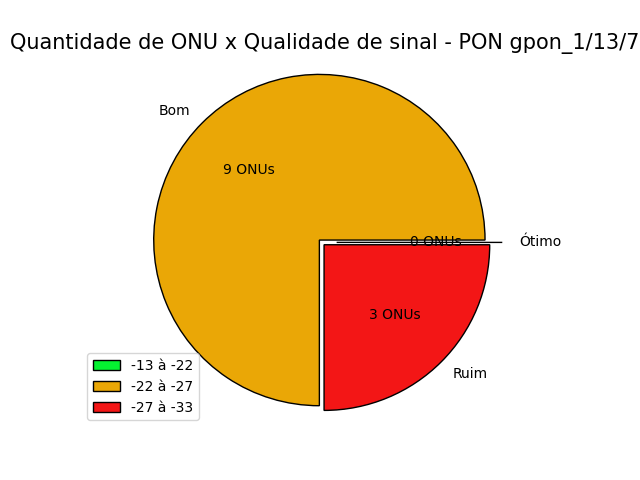
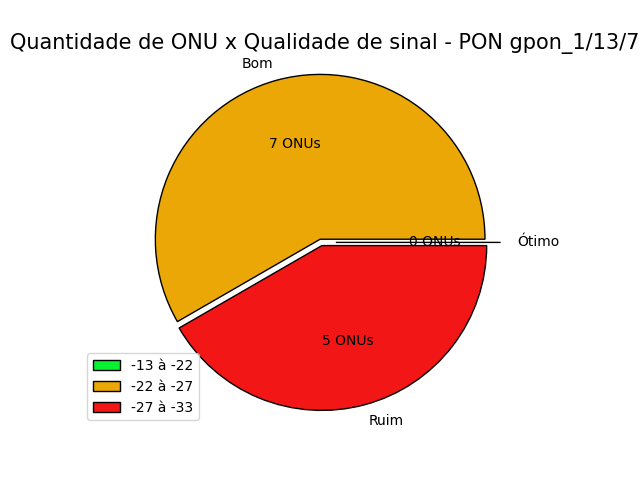
atualizado .gitignore

diff --git a/dados.js b/dados.js
@@ -1,4 +1,4 @@
-const relatorioPons={'gpon_1/13/1': {'online': 6, 'provisionada': 8, 'offline': 2, 'onusSinalBom': 4, 'onusSinalOtimo': 1, 'onusSinalRuim': 1, 'melhorSinal': -11.399, 'piorSinal': -28.126, 'mediaSinal': -24.373, 'onuComSinalRuim': [{'idOnu': 'gpon-onu_1/13/1:3', 'sinal': -28.126, 'description': 'Neuza_Ferreira', 'serial': 'FHTT100139A8'}]}, 'gpon_1/13/2': {'online': 31, 'provisionada': 34, 'offline': 3, 'onusSinalBom': 11, 'onusSinalOtimo': 17, 'onusSinalRuim': 3, 'melhorSinal': -16.699, 'piorSinal': -28.681, 'mediaSinal': -20.883, 'onuComSinalRuim': [{'idOnu': 'gpon-onu_1/13/2:15', 'sinal': -28.681, 'description': 'Cesar_junior_Loiola_', 'serial': 'FHTT092420C0'}, {'idOnu': 'gpon-onu_1/13/2:20', 'sinal': -27.695, 'description': 'Patricia_Junia', 'serial': 'INVP10165317'}, {'idOnu': 'gpon-onu_1/13/2:28', 'sinal': -28.478, 'description': 'CEZAR_SARAIVA', 'serial': 'INVP10036838'}]}, 'gpon_1/13/3': {'online': 10, 'provisionada': 24, 'offline': 14, 'onusSinalBom': 9, 'onusSinalOtimo': 0, 'onusSinalRuim': 1, 'melhorSinal': -24.66, 'piorSinal': -27.034, 'mediaSinal': -26.187, 'onuComSinalRuim': [{'idOnu': 'gpon-onu_1/13/3:26', 'sinal': -27.034, 'description': 'Elaine_rosa', 'serial': 'TLCM000A6D94'}]}, 'gpon_1/13/4': {'online': 1, 'provisionada': 1, 'offline': 0, 'onusSinalBom': 0, 'onusSinalOtimo': 1, 'onusSinalRuim': 0, 'melhorSinal': -18.459, 'piorSinal': -18.459, 'mediaSinal': -18.459, 'onuComSinalRuim': []}, 'gpon_1/13/5': {'online': 10, 'provisionada': 14, 'offline': 4, 'onusSinalBom': 8, 'onusSinalOtimo': 1, 'onusSinalRuim': 1, 'melhorSinal': -20.706, 'piorSinal': -27.261, 'mediaSinal': -25.289, 'onuComSinalRuim': [{'idOnu': 'gpon-onu_1/13/5:4', 'sinal': -27.261, 'description': 'Patricia_cassia', 'serial': 'FHTT0578BF00'}]}, 'gpon_1/13/6': {'online': 1, 'provisionada': 4, 'offline': 3, 'onusSinalBom': 0, 'onusSinalOtimo': 1, 'onusSinalRuim': 0, 'melhorSinal': -21.675, 'piorSinal': -21.675, 'mediaSinal': -21.675, 'onuComSinalRuim': []}, 'gpon_1/13/7': {'online': 12, 'provisionada': 15, 'offline': 3, 'onusSinalBom': 9, 'onusSinalOtimo': 0, 'onusSinalRuim': 3, 'melhorSinal': -22.806, 'piorSinal': -29.005, 'mediaSinal': -25.162, 'onuComSinalRuim': [{'idOnu': 'gpon-onu_1/13/7:3', 'sinal': -29.005, 'description': 'JOSIANE_DAS_DORES_MOREIRA', 'serial': 'TLCM00095D05'}, {'idOnu': 'gpon-onu_1/13/7:7', 'sinal': -27.449, 'description': 'Mary_Neusa_Maria_da_silva', 'serial': 'ZTEG96010AB2'}, {'idOnu': 'gpon-onu_1/13/7:13', 'sinal': -27.259, 'description': 'ADRIANO_SOUZA_CUNHA', 'serial': 'TLCM00025121'}]}, 'gpon_1/13/8': {}, 'gpon_1/13/9': {'online': 17, 'provisionada': 24, 'offline': 7, 'onusSinalBom': 5, 'onusSinalOtimo': 12, 'onusSinalRuim': 0, 'melhorSinal': -18.651, 'piorSinal': -23.895, 'mediaSinal': -20.926, 'onuComSinalRuim': []}, 'gpon_1/13/10': {'online': 7, 'provisionada': 8, 'offline': 1, 'onusSinalBom': 4, 'onusSinalOtimo': 3, 'onusSinalRuim': 0, 'melhorSinal': -11.059, 'piorSinal': -25.562, 'mediaSinal': -22.628, 'onuComSinalRuim': []}, 'gpon_1/13/11': {'online': 31, 'provisionada': 37, 'offline': 6, 'onusSinalBom': 16, 'onusSinalOtimo': 10, 'onusSinalRuim': 5, 'melhorSinal': -18.03, 'piorSinal': -29.517, 'mediaSinal': -23.727, 'onuComSinalRuim': [{'idOnu': 'gpon-onu_1/13/11:1', 'sinal': -29.214, 'description': 'Adilson_Vilela', 'serial': 'TLCM0006E7A4'}, {'idOnu': 'gpon-onu_1/13/11:11', 'sinal': -27.596, 'description': 'Ivone_da_Silva', 'serial': 'MSTC393BFEF6'}, {'idOnu': 'gpon-onu_1/13/11:24', 'sinal': -29.517, 'description': 'Maria_Machado_da_silva', 'serial': 'MSTC03A41BAE'}, {'idOnu': 'gpon-onu_1/13/11:35', 'sinal': -28.19, 'description': 'Marcia_Felicio', 'serial': 'HWTC4B369D9E'}, {'idOnu': 'gpon-onu_1/13/11:37', 'sinal': -27.214, 'description': 'Walister_Mota_soares', 'serial': 'TDTC35226778'}]}, 'gpon_1/13/12': {'online': 2, 'provisionada': 4, 'offline': 2, 'onusSinalBom': 2, 'onusSinalOtimo': 0, 'onusSinalRuim': 0, 'melhorSinal': -24.534, 'piorSinal': -24.737, 'mediaSinal': -25.034, 'onuComSinalRuim': []}, 'gpon_1/13/13': {'online': 8, 'provisionada': 11, 'offline': 3, 'onusSinalBom': 7, 'onusSinalOtimo': 1, 'onusSinalRuim': 0, 'melhorSinal': -20.204, 'piorSinal': -26.165, 'mediaSinal': -23.476, 'onuComSinalRuim': []}, 'gpon_1/13/14': {}, 'gpon_1/13/15': {'online': 8, 'provisionada': 11, 'offline': 3, 'onusSinalBom': 1, 'onusSinalOtimo': 6, 'onusSinalRuim': 1, 'melhorSinal': -11.576, 'piorSinal': -27.751, 'mediaSinal': -13.766, 'onuComSinalRuim': [{'idOnu': 'gpon-onu_1/13/15:5', 'sinal': -27.751, 'description': 'Samuel_Souza_-_Borboletas_112', 'serial': 'MSTC393D607B'}]}, 'gpon_1/13/16': {'online': 9, 'provisionada': 10, 'offline': 1, 'onusSinalBom': 1, 'onusSinalOtimo': 8, 'onusSinalRuim': 0, 'melhorSinal': -10.788, 'piorSinal': -22.396, 'mediaSinal': -15.575, 'onuComSinalRuim': []}}
+const relatorioPons={'gpon_1/9/1': {}, 'gpon_1/9/2': {}, 'gpon_1/9/3': {}, 'gpon_1/9/4': {}, 'gpon_1/9/5': {}, 'gpon_1/9/6': {}, 'gpon_1/9/7': {}, 'gpon_1/9/8': {}, 'gpon_1/9/9': {}, 'gpon_1/9/10': {}, 'gpon_1/9/11': {}, 'gpon_1/9/12': {}, 'gpon_1/9/13': {}, 'gpon_1/9/14': {}, 'gpon_1/9/15': {}, 'gpon_1/9/16': {}, 'gpon_1/12/1': {'online': 38, 'provisionada': 53, 'offline': 15, 'onusSinalBom': 15, 'onusSinalOtimo': 16, 'onusSinalRuim': 7, 'melhorSinal': -15.734, 'piorSinal': -28.418, 'mediaSinal': -23.049, 'onuComSinalRuim': [{'idOnu': 'gpon-onu_1/12/1:4', 'sinal': -28.183, 'description': 'ARGILEU_MOREIRA_PRATES', 'serial': 'TLCM0003FE97'}, {'idOnu': 'gpon-onu_1/12/1:5', 'sinal': -27.965, 'description': 'Aline_Kely', 'serial': 'INVP00014045'}, {'idOnu': 'gpon-onu_1/12/1:9', 'sinal': -28.418, 'description': 'Lazaro', 'serial': 'MSTC039E8DCB'}, {'idOnu': 'gpon-onu_1/12/1:10', 'sinal': -27.958, 'description': 'MARCELO_SOUZA_ALVES', 'serial': 'TLCM000908C2'}, {'idOnu': 'gpon-onu_1/12/1:11', 'sinal': -27.212, 'description': 'Vinicius_furtado', 'serial': 'DD16B3631B9E'}, {'idOnu': 'gpon-onu_1/12/1:21', 'sinal': -27.748, 'description': 'DANIELE_CAROLINA_PAULA_DOS_ANJOS_BARCELOS', 'serial': 'TDTC350D8AE0'}, {'idOnu': 'gpon-onu_1/12/1:47', 'sinal': -27.034, 'description': 'Ludmila__tamires_-_Maicon', 'serial': 'MSTC03A5FBBA'}]}, 'gpon_1/12/2': {'online': 18, 'provisionada': 24, 'offline': 6, 'onusSinalBom': 2, 'onusSinalOtimo': 15, 'onusSinalRuim': 1, 'melhorSinal': -11.99, 'piorSinal': -27.259, 'mediaSinal': -18.48, 'onuComSinalRuim': [{'idOnu': 'gpon-onu_1/12/2:19', 'sinal': -27.259, 'description': 'Antonio_Ribeiro', 'serial': 'TLCM0007C3FD'}]}, 'gpon_1/12/3': {}, 'gpon_1/12/4': {'online': 40, 'provisionada': 52, 'offline': 12, 'onusSinalBom': 32, 'onusSinalOtimo': 1, 'onusSinalRuim': 7, 'melhorSinal': -21.394, 'piorSinal': -28.049, 'mediaSinal': -25.34, 'onuComSinalRuim': [{'idOnu': 'gpon-onu_1/12/4:4', 'sinal': -27.782, 'description': 'Naely', 'serial': 'GW24AC539CFD'}, {'idOnu': 'gpon-onu_1/12/4:6', 'sinal': -27.932, 'description': 'ROSANGELO_MARTINS/_MARINA', 'serial': 'TLCM0009C486'}, {'idOnu': 'gpon-onu_1/12/4:22', 'sinal': -27.338, 'description': 'Romualdo', 'serial': 'TPLG6B54CF91'}, {'idOnu': 'gpon-onu_1/12/4:23', 'sinal': -27.982, 'description': 'Lucas_Rodrigues_Barbosa_lucas_160', 'serial': 'FHTT112B26F8'}, {'idOnu': 'gpon-onu_1/12/4:39', 'sinal': -27.531, 'description': 'Thailer_Luiz_compos_marques', 'serial': 'HWTCA21E09A4'}, {'idOnu': 'gpon-onu_1/12/4:44', 'sinal': -28.049, 'description': 'Casa_Mae', 'serial': 'HWTCE474E7A3'}, {'idOnu': 'gpon-onu_1/12/4:54', 'sinal': -27.883, 'description': 'VALDENI_PEREIRA_DE_FREITAS', 'serial': 'INVP10037618'}]}, 'gpon_1/12/5': {'online': 59, 'provisionada': 74, 'offline': 15, 'onusSinalBom': 40, 'onusSinalOtimo': 6, 'onusSinalRuim': 13, 'melhorSinal': -20.575, 'piorSinal': -30.111, 'mediaSinal': -24.763, 'onuComSinalRuim': [{'idOnu': 'gpon-onu_1/12/5:2', 'sinal': -30.111, 'description': 'Karina_melo', 'serial': 'TDTC352ABC10'}, {'idOnu': 'gpon-onu_1/12/5:3', 'sinal': -27.224, 'description': 'Roberto_Marcio', 'serial': 'ASKY003A7AC6'}, {'idOnu': 'gpon-onu_1/12/5:5', 'sinal': -29.359, 'description': 'Maria_da_Conceicao_aparecida_de_souza_Deivison_', 'serial': 'TLCM0009647B'}, {'idOnu': 'gpon-onu_1/12/5:9', 'sinal': -27.353, 'description': 'ingrid', 'serial': 'MSTC03A36B90'}, {'idOnu': 'gpon-onu_1/12/5:13', 'sinal': -27.496, 'description': 'MESSIAS_SANTOS_DE_SOUZA', 'serial': 'TLCM0009BD2F'}, {'idOnu': 'gpon-onu_1/12/5:14', 'sinal': -27.496, 'description': 'Aliana_rosa', 'serial': 'ZTEGC8B9D076'}, {'idOnu': 'gpon-onu_1/12/5:35', 'sinal': -27.4, 'description': 'Jonatas_de_Castro', 'serial': 'TPLGF78EB475'}, {'idOnu': 'gpon-onu_1/12/5:36', 'sinal': -28.86, 'description': 'Gracielia', 'serial': 'TLCM0004B7EF'}, {'idOnu': 'gpon-onu_1/12/5:38', 'sinal': -28.13, 'description': 'Jean_Vinicius', 'serial': 'MSTC35C85279'}, {'idOnu': 'gpon-onu_1/12/5:57', 'sinal': -28.478, 'description': 'Lucinete', 'serial': 'MSTC39390D8E'}, {'idOnu': 'gpon-onu_1/12/5:68', 'sinal': -27.698, 'description': 'Guilherme_Ramos_mendes', 'serial': 'FHTT00074CF8'}, {'idOnu': 'gpon-onu_1/12/5:70', 'sinal': -28.186, 'description': 'Edimilson_batista_santos_mundo_das_pecas', 'serial': 'TLCM0005D352'}, {'idOnu': 'gpon-onu_1/12/5:73', 'sinal': -27.306, 'description': 'Marcio_Alves_diniz', 'serial': 'TDTC35222620'}]}, 'gpon_1/12/6': {'online': 9, 'provisionada': 11, 'offline': 2, 'onusSinalBom': 1, 'onusSinalOtimo': 7, 'onusSinalRuim': 1, 'melhorSinal': -12.951, 'piorSinal': -27.405, 'mediaSinal': -17.851, 'onuComSinalRuim': [{'idOnu': 'gpon-onu_1/12/6:3', 'sinal': -27.405, 'description': 'Antonio_Marcos_de_Souza', 'serial': 'FHTT231D9508'}]}, 'gpon_1/12/7': {'online': 32, 'provisionada': 46, 'offline': 14, 'onusSinalBom': 13, 'onusSinalOtimo': 13, 'onusSinalRuim': 6, 'melhorSinal': -18.102, 'piorSinal': -29.208, 'mediaSinal': -23.192, 'onuComSinalRuim': [{'idOnu': 'gpon-onu_1/12/7:9', 'sinal': -27.648, 'description': 'Rodrigo_Santos_de_souza', 'serial': 'TDTC350CC708'}, {'idOnu': 'gpon-onu_1/12/7:14', 'sinal': -29.208, 'description': 'Maria_do_Carmo_Diogo', 'serial': 'TLCM00075F3F'}, {'idOnu': 'gpon-onu_1/12/7:18', 'sinal': -27.906, 'description': 'Nicoli', 'serial': 'TLCM000401BA'}, {'idOnu': 'gpon-onu_1/12/7:22', 'sinal': -28.483, 'description': 'Rodrigo_Almeida_Vieira', 'serial': 'MSTC38EC2DF6'}, {'idOnu': 'gpon-onu_1/12/7:31', 'sinal': -27.167, 'description': 'Tania_Aparecida_Migliori_de_Souza', 'serial': 'MSTC393BEF4B'}, {'idOnu': 'gpon-onu_1/12/7:32', 'sinal': -27.496, 'description': 'Ebert_Richard', 'serial': 'FHTT11F9F8D0'}]}, 'gpon_1/12/8': {'online': 2, 'provisionada': 2, 'offline': 0, 'onusSinalBom': 2, 'onusSinalOtimo': 0, 'onusSinalRuim': 0, 'melhorSinal': -23.116, 'piorSinal': -25.885, 'mediaSinal': -23.616, 'onuComSinalRuim': []}, 'gpon_1/12/9': {'online': 51, 'provisionada': 60, 'offline': 9, 'onusSinalBom': 26, 'onusSinalOtimo': 4, 'onusSinalRuim': 21, 'melhorSinal': -20.991, 'piorSinal': -29.57, 'mediaSinal': -26.428, 'onuComSinalRuim': [{'idOnu': 'gpon-onu_1/12/9:4', 'sinal': -27.048, 'description': 'Michel_Felipe', 'serial': 'TPLG6B54D0B6'}, {'idOnu': 'gpon-onu_1/12/9:6', 'sinal': -28.906, 'description': 'Leandro_Santos_souza', 'serial': 'MSTC393B16E2'}, {'idOnu': 'gpon-onu_1/12/9:9', 'sinal': -27.953, 'description': 'Ivan', 'serial': 'MSTC393B175A'}, {'idOnu': 'gpon-onu_1/12/9:10', 'sinal': -27.414, 'description': 'Sarah_2', 'serial': 'MSTC03A41583'}, {'idOnu': 'gpon-onu_1/12/9:14', 'sinal': -27.121, 'description': 'GENECY_FERREIRA_DA_ROCHA', 'serial': 'TLCM00075FE2'}, {'idOnu': 'gpon-onu_1/12/9:16', 'sinal': -28.227, 'description': 'Lucio_rua_Gardenia', 'serial': 'MSTC393D297B'}, {'idOnu': 'gpon-onu_1/12/9:20', 'sinal': -27.91, 'description': 'Roney', 'serial': 'TLCM0008F780'}, {'idOnu': 'gpon-onu_1/12/9:21', 'sinal': -28.581, 'description': 'Zenilda', 'serial': 'TLCM0003A6CD'}, {'idOnu': 'gpon-onu_1/12/9:26', 'sinal': -27.109, 'description': 'Maria_Graziele', 'serial': 'HWTC8606E4A4'}, {'idOnu': 'gpon-onu_1/12/9:27', 'sinal': -27.131, 'description': 'ESTEFANE_RAISSA_RODRIGUES_ALMEIDA', 'serial': 'TLCM00003674'}, {'idOnu': 'gpon-onu_1/12/9:30', 'sinal': -29.57, 'description': 'Elissandra_Kiki', 'serial': 'MSTC391B08F2'}, {'idOnu': 'gpon-onu_1/12/9:33', 'sinal': -27.838, 'description': 'Tulio,_cx_29', 'serial': 'TLCM00077210'}, {'idOnu': 'gpon-onu_1/12/9:34', 'sinal': -28.414, 'description': 'CRIRLEY_RODRIGUES_DOS_SANTOS', 'serial': 'INVP00011317'}, {'idOnu': 'gpon-onu_1/12/9:35', 'sinal': -28.766, 'description': 'Igor_Ribeiro_dos_Anjos', 'serial': 'MSTC039E8DC5'}, {'idOnu': 'gpon-onu_1/12/9:38', 'sinal': -28.991, 'description': 'Sandra_Gomes_moreira', 'serial': 'HWTC7F32B39D'}, {'idOnu': 'gpon-onu_1/12/9:45', 'sinal': -27.819, 'description': 'Mayla', 'serial': 'TLCM00075C99'}, {'idOnu': 'gpon-onu_1/12/9:46', 'sinal': -28.832, 'description': 'Guilherme_Ferreira_Barbosa', 'serial': 'ZTEGC45D26E1'}, {'idOnu': 'gpon-onu_1/12/9:48', 'sinal': -29.077, 'description': 'Mateus_Felipe_Cardoso_ribeiro', 'serial': 'TLCM0003CEDD'}, {'idOnu': 'gpon-onu_1/12/9:53', 'sinal': -27.81, 'description': 'Luzinete_Xavierde_souza', 'serial': 'ASKY003A9BEF'}, {'idOnu': 'gpon-onu_1/12/9:54', 'sinal': -27.698, 'description': 'Gabriele_Alves_de_oliveira', 'serial': 'HWTC11346BA6'}, {'idOnu': 'gpon-onu_1/12/9:57', 'sinal': -28.481, 'description': 'Gabriel_Cardoso_ribeiro', 'serial': 'ZTEGC8B53535'}]}, 'gpon_1/12/10': {'online': 8, 'provisionada': 9, 'offline': 1, 'onusSinalBom': 7, 'onusSinalOtimo': 1, 'onusSinalRuim': 0, 'melhorSinal': -21.662, 'piorSinal': -24.814, 'mediaSinal': -24.15, 'onuComSinalRuim': []}, 'gpon_1/12/11': {'online': 2, 'provisionada': 2, 'offline': 0, 'onusSinalBom': 1, 'onusSinalOtimo': 1, 'onusSinalRuim': 0, 'melhorSinal': -18.538, 'piorSinal': -22.724, 'mediaSinal': -19.038, 'onuComSinalRuim': []}, 'gpon_1/12/12': {'online': 2, 'provisionada': 2, 'offline': 0, 'onusSinalBom': 1, 'onusSinalOtimo': 1, 'onusSinalRuim': 0, 'melhorSinal': -21.574, 'piorSinal': -24.763, 'mediaSinal': -22.074, 'onuComSinalRuim': []}, 'gpon_1/12/13': {'online': 2, 'provisionada': 5, 'offline': 3, 'onusSinalBom': 2, 'onusSinalOtimo': 0, 'onusSinalRuim': 0, 'melhorSinal': -22.076, 'piorSinal': -26.382, 'mediaSinal': -22.576, 'onuComSinalRuim': []}, 'gpon_1/12/14': {'online': 2, 'provisionada': 3, 'offline': 1, 'onusSinalBom': 0, 'onusSinalOtimo': 2, 'onusSinalRuim': 0, 'melhorSinal': -19.446, 'piorSinal': -21.331, 'mediaSinal': -19.946, 'onuComSinalRuim': []}, 'gpon_1/12/15': {'online': 3, 'provisionada': 4, 'offline': 1, 'onusSinalBom': 1, 'onusSinalOtimo': 1, 'onusSinalRuim': 0, 'melhorSinal': -5.423, 'piorSinal': -24.342, 'mediaSinal': -14.754, 'onuComSinalRuim': []}, 'gpon_1/12/16': {'online': 25, 'provisionada': 36, 'offline': 11, 'onusSinalBom': 21, 'onusSinalOtimo': 1, 'onusSinalRuim': 3, 'melhorSinal': -16.895, 'piorSinal': -28.239, 'mediaSinal': -25.144, 'onuComSinalRuim': [{'idOnu': 'gpon-onu_1/12/16:9', 'sinal': -27.499, 'description': 'Daniella_Santana_de_morais_soares', 'serial': 'TLCM00096207'}, {'idOnu': 'gpon-onu_1/12/16:12', 'sinal': -28.239, 'description': 'Jose_Luis_-_Rossi', 'serial': 'MSTC393B175B'}, {'idOnu': 'gpon-onu_1/12/16:26', 'sinal': -27.906, 'description': 'Tadeu_guimaraes', 'serial': 'ASKY003A8369'}]}, 'gpon_1/13/1': {'online': 6, 'provisionada': 8, 'offline': 2, 'onusSinalBom': 4, 'onusSinalOtimo': 1, 'onusSinalRuim': 1, 'melhorSinal': -11.419, 'piorSinal': -28.254, 'mediaSinal': -24.268, 'onuComSinalRuim': [{'idOnu': 'gpon-onu_1/13/1:3', 'sinal': -28.254, 'description': 'Neuza_Ferreira', 'serial': 'FHTT100139A8'}]}, 'gpon_1/13/2': {'online': 31, 'provisionada': 34, 'offline': 3, 'onusSinalBom': 11, 'onusSinalOtimo': 17, 'onusSinalRuim': 3, 'melhorSinal': -16.687, 'piorSinal': -28.796, 'mediaSinal': -21.056, 'onuComSinalRuim': [{'idOnu': 'gpon-onu_1/13/2:15', 'sinal': -28.796, 'description': 'Cesar_junior_Loiola_', 'serial': 'FHTT092420C0'}, {'idOnu': 'gpon-onu_1/13/2:20', 'sinal': -27.8, 'description': 'Patricia_Junia', 'serial': 'INVP10165317'}, {'idOnu': 'gpon-onu_1/13/2:28', 'sinal': -28.418, 'description': 'CEZAR_SARAIVA', 'serial': 'INVP10036838'}]}, 'gpon_1/13/3': {'online': 10, 'provisionada': 23, 'offline': 13, 'onusSinalBom': 10, 'onusSinalOtimo': 0, 'onusSinalRuim': 0, 'melhorSinal': -24.635, 'piorSinal': -26.991, 'mediaSinal': -26.186, 'onuComSinalRuim': []}, 'gpon_1/13/4': {'online': 1, 'provisionada': 1, 'offline': 0, 'onusSinalBom': 0, 'onusSinalOtimo': 1, 'onusSinalRuim': 0, 'melhorSinal': -18.392, 'piorSinal': -18.392, 'mediaSinal': -18.392, 'onuComSinalRuim': []}, 'gpon_1/13/5': {'online': 10, 'provisionada': 14, 'offline': 4, 'onusSinalBom': 8, 'onusSinalOtimo': 1, 'onusSinalRuim': 1, 'melhorSinal': -20.686, 'piorSinal': -27.309, 'mediaSinal': -25.211, 'onuComSinalRuim': [{'idOnu': 'gpon-onu_1/13/5:4', 'sinal': -27.309, 'description': 'Patricia_cassia', 'serial': 'FHTT0578BF00'}]}, 'gpon_1/13/6': {'online': 1, 'provisionada': 4, 'offline': 3, 'onusSinalBom': 0, 'onusSinalOtimo': 1, 'onusSinalRuim': 0, 'melhorSinal': -21.687, 'piorSinal': -21.687, 'mediaSinal': -21.687, 'onuComSinalRuim': []}, 'gpon_1/13/7': {'online': 12, 'provisionada': 15, 'offline': 3, 'onusSinalBom': 7, 'onusSinalOtimo': 0, 'onusSinalRuim': 5, 'melhorSinal': -22.874, 'piorSinal': -29.289, 'mediaSinal': -26.063, 'onuComSinalRuim': [{'idOnu': 'gpon-onu_1/13/7:3', 'sinal': -29.289, 'description': 'JOSIANE_DAS_DORES_MOREIRA', 'serial': 'TLCM00095D05'}, {'idOnu': 'gpon-onu_1/13/7:4', 'sinal': -27.748, 'description': 'JAQUELINE_DO_ROSARIO_BRITO', 'serial': 'TLCM00091F15'}, {'idOnu': 'gpon-onu_1/13/7:7', 'sinal': -27.408, 'description': 'Mary_Neusa_Maria_da_silva', 'serial': 'ZTEG96010AB2'}, {'idOnu': 'gpon-onu_1/13/7:12', 'sinal': -27.546, 'description': 'Renato_Tulio_Barbosa_Lima', 'serial': 'INVP10036832'}, {'idOnu': 'gpon-onu_1/13/7:13', 'sinal': -27.853, 'description': 'ADRIANO_SOUZA_CUNHA', 'serial': 'TLCM00025121'}]}, 'gpon_1/13/8': {}, 'gpon_1/13/9': {'online': 19, 'provisionada': 24, 'offline': 5, 'onusSinalBom': 7, 'onusSinalOtimo': 12, 'onusSinalRuim': 0, 'melhorSinal': -18.569, 'piorSinal': -25.2, 'mediaSinal': -21.124, 'onuComSinalRuim': []}, 'gpon_1/13/10': {'online': 8, 'provisionada': 8, 'offline': 0, 'onusSinalBom': 4, 'onusSinalOtimo': 4, 'onusSinalRuim': 0, 'melhorSinal': -11.057, 'piorSinal': -25.561, 'mediaSinal': -22.267, 'onuComSinalRuim': []}, 'gpon_1/13/11': {'online': 31, 'provisionada': 37, 'offline': 6, 'onusSinalBom': 16, 'onusSinalOtimo': 10, 'onusSinalRuim': 5, 'melhorSinal': -18.063, 'piorSinal': -29.593, 'mediaSinal': -23.788, 'onuComSinalRuim': [{'idOnu': 'gpon-onu_1/13/11:1', 'sinal': -29.004, 'description': 'Adilson_Vilela', 'serial': 'TLCM0006E7A4'}, {'idOnu': 'gpon-onu_1/13/11:11', 'sinal': -27.499, 'description': 'Ivone_da_Silva', 'serial': 'MSTC393BFEF6'}, {'idOnu': 'gpon-onu_1/13/11:24', 'sinal': -29.593, 'description': 'Maria_Machado_da_silva', 'serial': 'MSTC03A41BAE'}, {'idOnu': 'gpon-onu_1/13/11:35', 'sinal': -28.13, 'description': 'Marcia_Felicio', 'serial': 'HWTC4B369D9E'}, {'idOnu': 'gpon-onu_1/13/11:37', 'sinal': -27.123, 'description': 'Walister_Mota_soares', 'serial': 'TDTC35226778'}]}, 'gpon_1/13/12': {'online': 2, 'provisionada': 4, 'offline': 2, 'onusSinalBom': 2, 'onusSinalOtimo': 0, 'onusSinalRuim': 0, 'melhorSinal': -24.415, 'piorSinal': -24.535, 'mediaSinal': -24.915, 'onuComSinalRuim': []}, 'gpon_1/13/13': {'online': 7, 'provisionada': 11, 'offline': 4, 'onusSinalBom': 6, 'onusSinalOtimo': 1, 'onusSinalRuim': 0, 'melhorSinal': -20.213, 'piorSinal': -26.32, 'mediaSinal': -23.098, 'onuComSinalRuim': []}, 'gpon_1/13/14': {}, 'gpon_1/13/15': {'online': 8, 'provisionada': 11, 'offline': 3, 'onusSinalBom': 1, 'onusSinalOtimo': 6, 'onusSinalRuim': 1, 'melhorSinal': -11.585, 'piorSinal': -27.906, 'mediaSinal': -13.709, 'onuComSinalRuim': [{'idOnu': 'gpon-onu_1/13/15:5', 'sinal': -27.906, 'description': 'Samuel_Souza_-_Borboletas_112', 'serial': 'MSTC393D607B'}]}, 'gpon_1/13/16': {'online': 9, 'provisionada': 10, 'offline': 1, 'onusSinalBom': 1, 'onusSinalOtimo': 8, 'onusSinalRuim': 0, 'melhorSinal': -10.852, 'piorSinal': -22.472, 'mediaSinal': -15.584, 'onuComSinalRuim': []}, 'gpon_1/15/1': {'online': 0, 'provisionada': 1, 'offline': 1}, 'gpon_1/15/2': {}, 'gpon_1/15/3': {'online': 2, 'provisionada': 2, 'offline': 0, 'onusSinalBom': 2, 'onusSinalOtimo': 0, 'onusSinalRuim': 0, 'melhorSinal': -22.924, 'piorSinal': -23.507, 'mediaSinal': -23.424, 'onuComSinalRuim': []}, 'gpon_1/15/4': {}, 'gpon_1/15/5': {'online': 1, 'provisionada': 4, 'offline': 3, 'onusSinalBom': 1, 'onusSinalOtimo': 0, 'onusSinalRuim': 0, 'melhorSinal': -25.817, 'piorSinal': -25.817, 'mediaSinal': -25.817, 'onuComSinalRuim': []}, 'gpon_1/15/6': {}, 'gpon_1/15/7': {}, 'gpon_1/15/8': {}, 'gpon_1/15/9': {'online': 2, 'provisionada': 3, 'offline': 1, 'onusSinalBom': 2, 'onusSinalOtimo': 0, 'onusSinalRuim': 0, 'melhorSinal': -23.133, 'piorSinal': -24.635, 'mediaSinal': -23.633, 'onuComSinalRuim': []}, 'gpon_1/15/10': {}, 'gpon_1/15/11': {}, 'gpon_1/15/12': {'online': 3, 'provisionada': 3, 'offline': 0, 'onusSinalBom': 2, 'onusSinalOtimo': 1, 'onusSinalRuim': 0, 'melhorSinal': -21.965, 'piorSinal': -24.089, 'mediaSinal': -23.625, 'onuComSinalRuim': []}, 'gpon_1/15/13': {'online': 5, 'provisionada': 6, 'offline': 1, 'onusSinalBom': 4, 'onusSinalOtimo': 1, 'onusSinalRuim': 0, 'melhorSinal': -21.71, 'piorSinal': -23.686, 'mediaSinal': -22.823, 'onuComSinalRuim': []}, 'gpon_1/15/14': {}, 'gpon_1/15/15': {'online': 0, 'provisionada': 1, 'offline': 1}, 'gpon_1/15/16': {}}
 
-const dadosDoRelatorio={'data': '25/10/2022', 'hora': '14:09', 'oltName': 'OLT Huawei'}
+const dadosDoRelatorio={'data': '25/10/2022', 'hora': '14:09', 'oltName': 'OLT ZTE - BHZ Fibra'}
 
